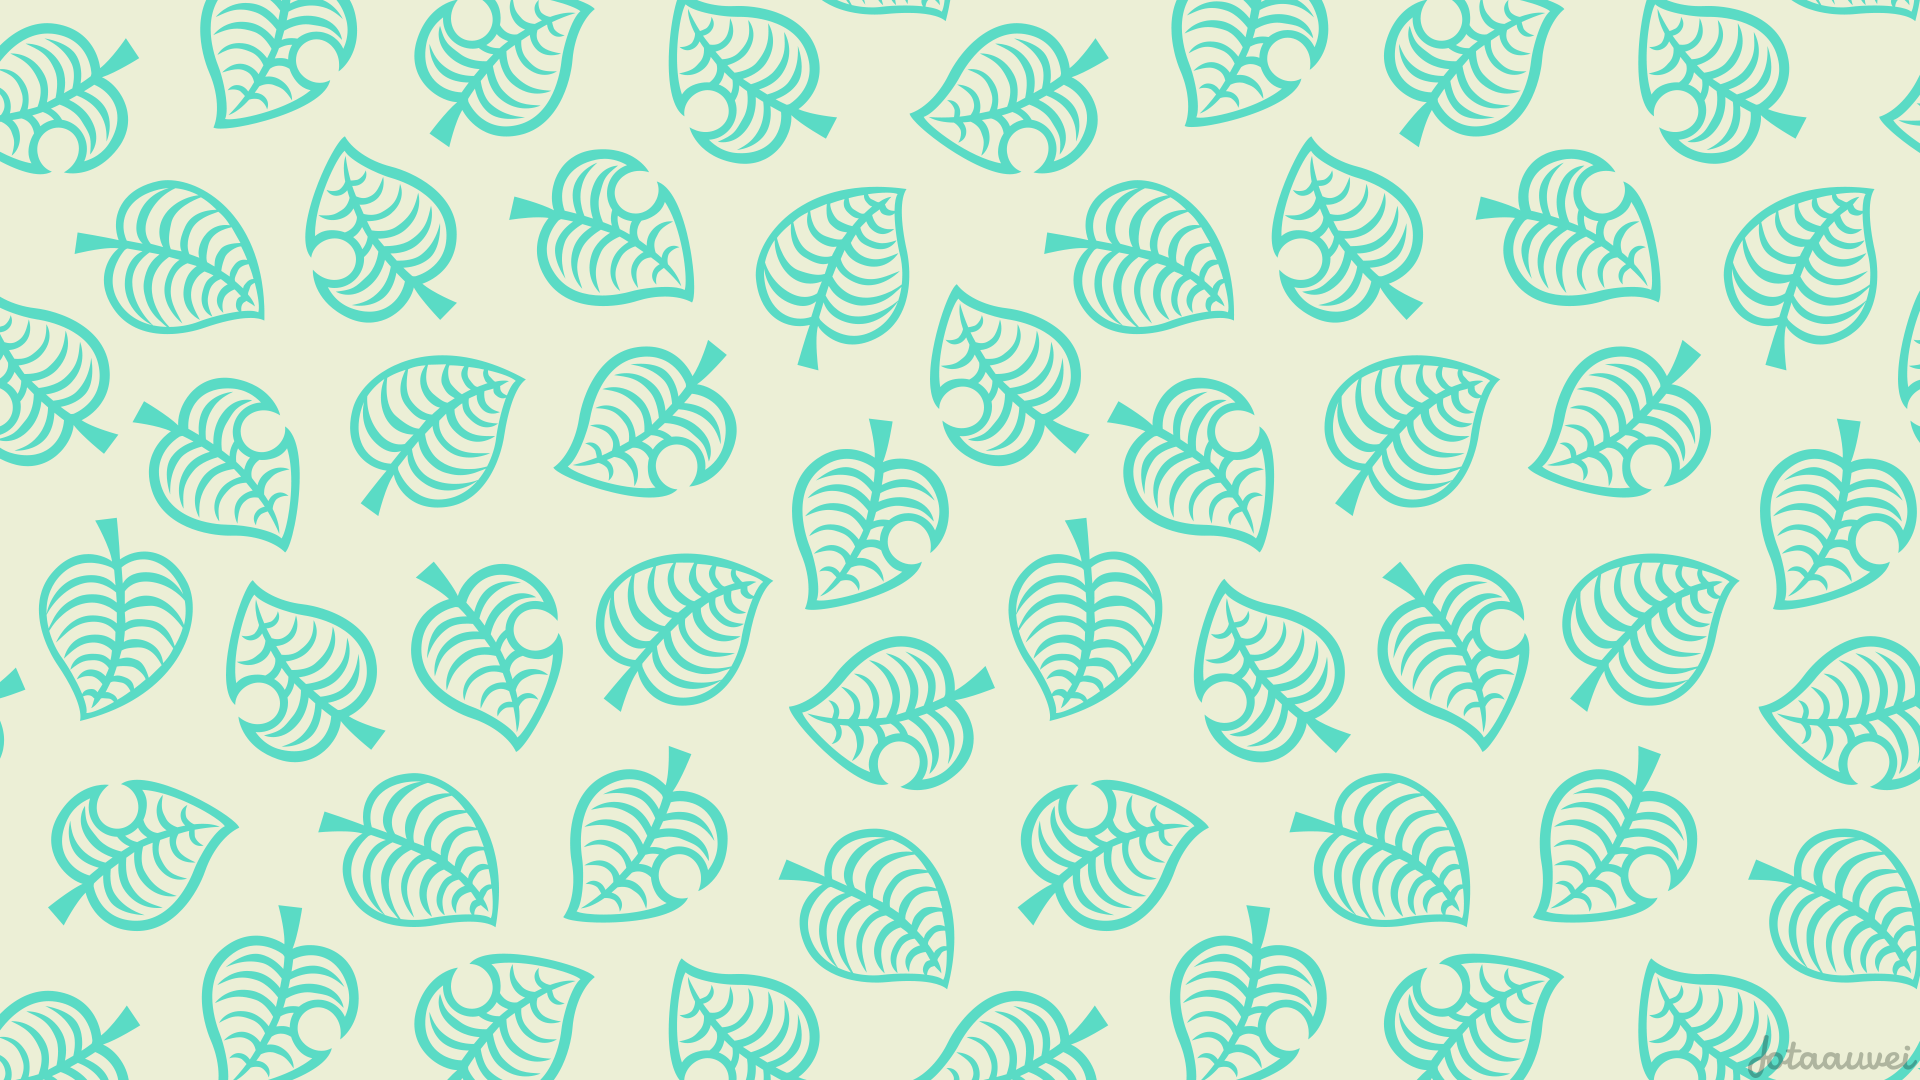
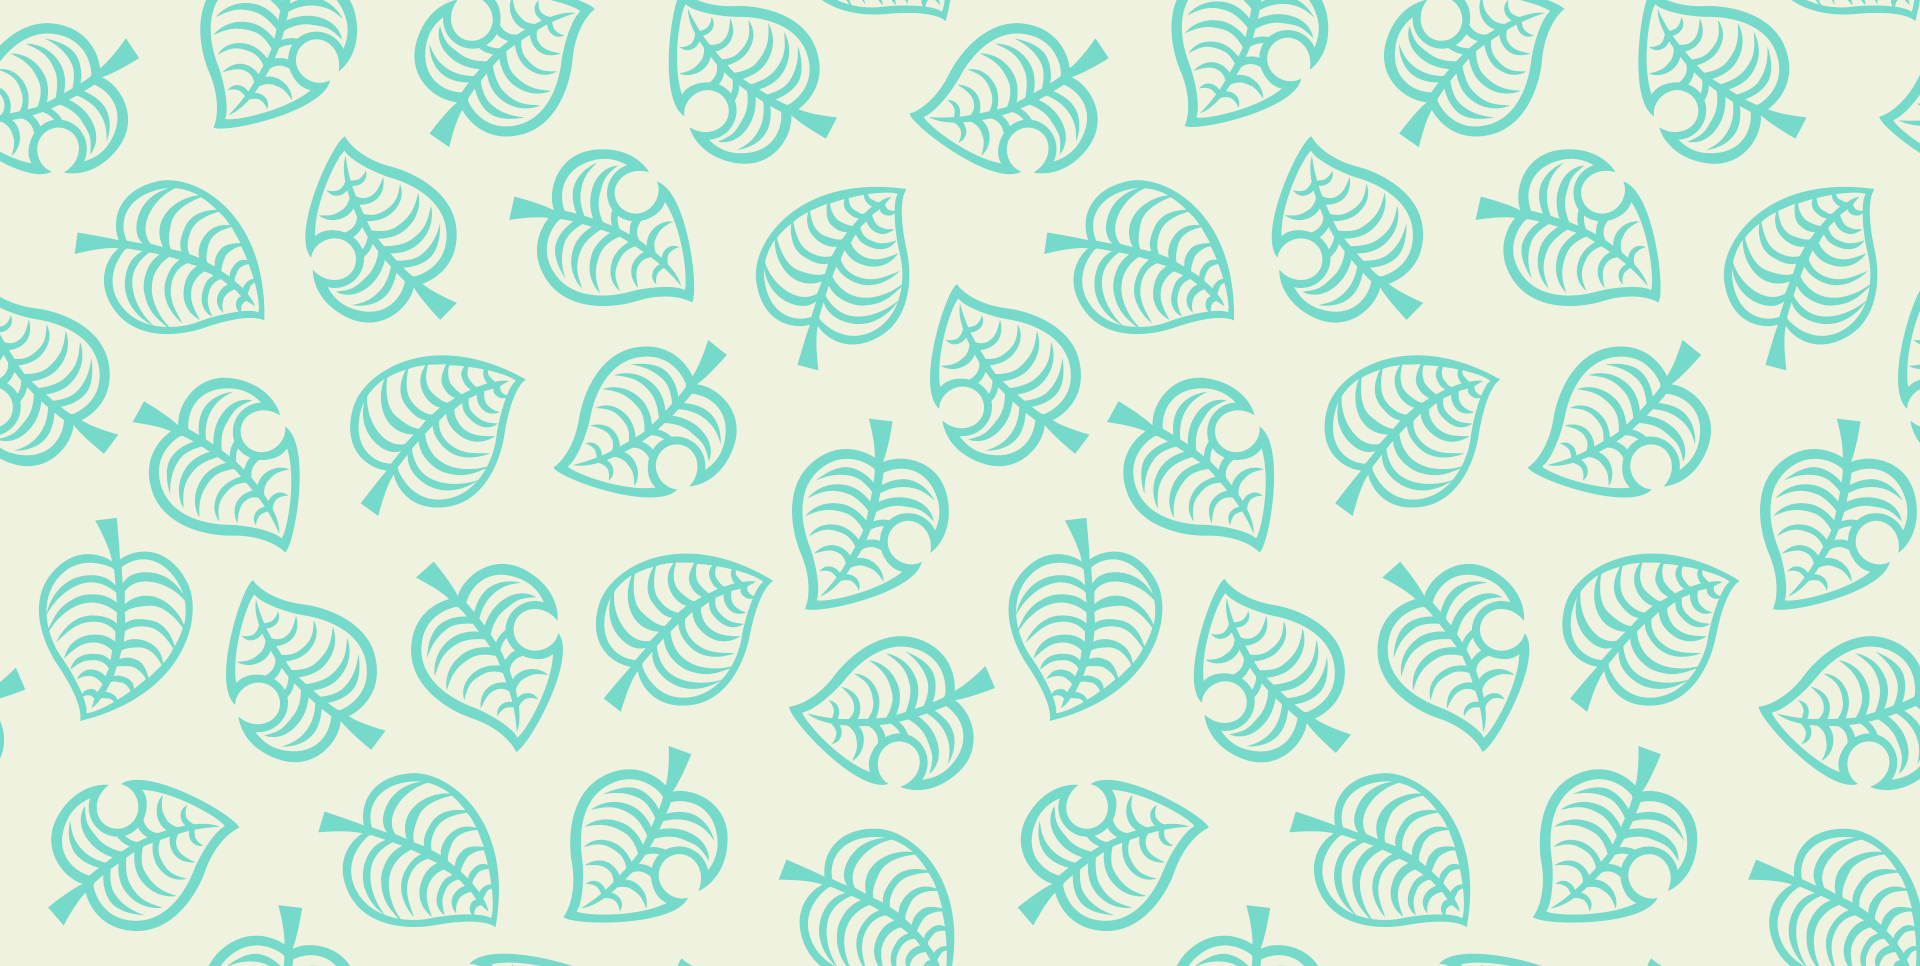
add background change and color change

diff --git a/index.html b/index.html
@@ -12,6 +12,9 @@
 <body>
   <section class="header">
     <h1>ACNH Dreamies Cards</h1>
+    <section class="horizons">
+      <img src="./img/nh.png" alt="">
+    </section>
   </section>
   <section role="buttons" class="buttons">
     <button id="cedric">
@@ -310,7 +313,7 @@
       --acnhblue: hsl(210, 100%, 80%);
       --acnhlightbrown: hsla(29, 40%, 60%, 1);
       --acnhdarkbrown: hsla(29, 30%, 30%, 1);
-      --acnhleaf: hsl(175, 68%, 69%);
+      --acnhleaf: hsl(175, 55%, 69%);
     }
 
     html {
@@ -328,19 +331,32 @@
     body {
       /* font-family: 'Karla', sans-serif; */
       font-family: 'Patrick Hand', cursive;
-      background: url(./img/y5mzeig307b41.png);
+      background: url(./img/wallhaven-1joxx9.jpg);
     }
 
     .header {
       margin: 2rem;
       background: rgba(99, 76, 54, 0.9);
       border-radius: 10px;
+      display: flex;
+      justify-content: center;
     }
 
     .header h1 {
       color: var(--acnhsand);
       text-align: center;
       font-size: 5rem;
+      margin-right: 1rem;
+    }
+
+    .horizons {
+      width: 12rem;
+      margin-left: 1rem;
+    }
+
+    .header img {
+      width: 100%;
+      transform: rotate(-0.05turn);
     }
 
     .buttons {
@@ -385,7 +401,6 @@
     .open {
       margin: 4rem auto;
       background: var(--acnhsand);
-      /* background: linear-gradient(var(--acnhblue), var(--acnhgreen)); */
       border: 10px solid var(--acnhleaf);
       border-radius: 8px;
       box-shadow: 0 0 20px hsla(29, 30%, 30%, 0.6);
@@ -402,25 +417,12 @@
     }
 
     .open p {
-      color: var(--acnhleaf);
+      color: rgba(99, 76, 54, 0.9);
     }
 
     .open strong {
       color: var(--acnhdarkbrown);
     }
-
-    /*  .border {
-      display: flex;
-      flex-direction: column;
-      justify-content: flex-end;
-      align-items: center;
-      width: 100%;
-      height: 100%;
-      border: 2px solid var(--acnhdarkbrown);
-      /* border-radius: 8px; */
-    }
-
-    */
   </style>
 
   <script>
